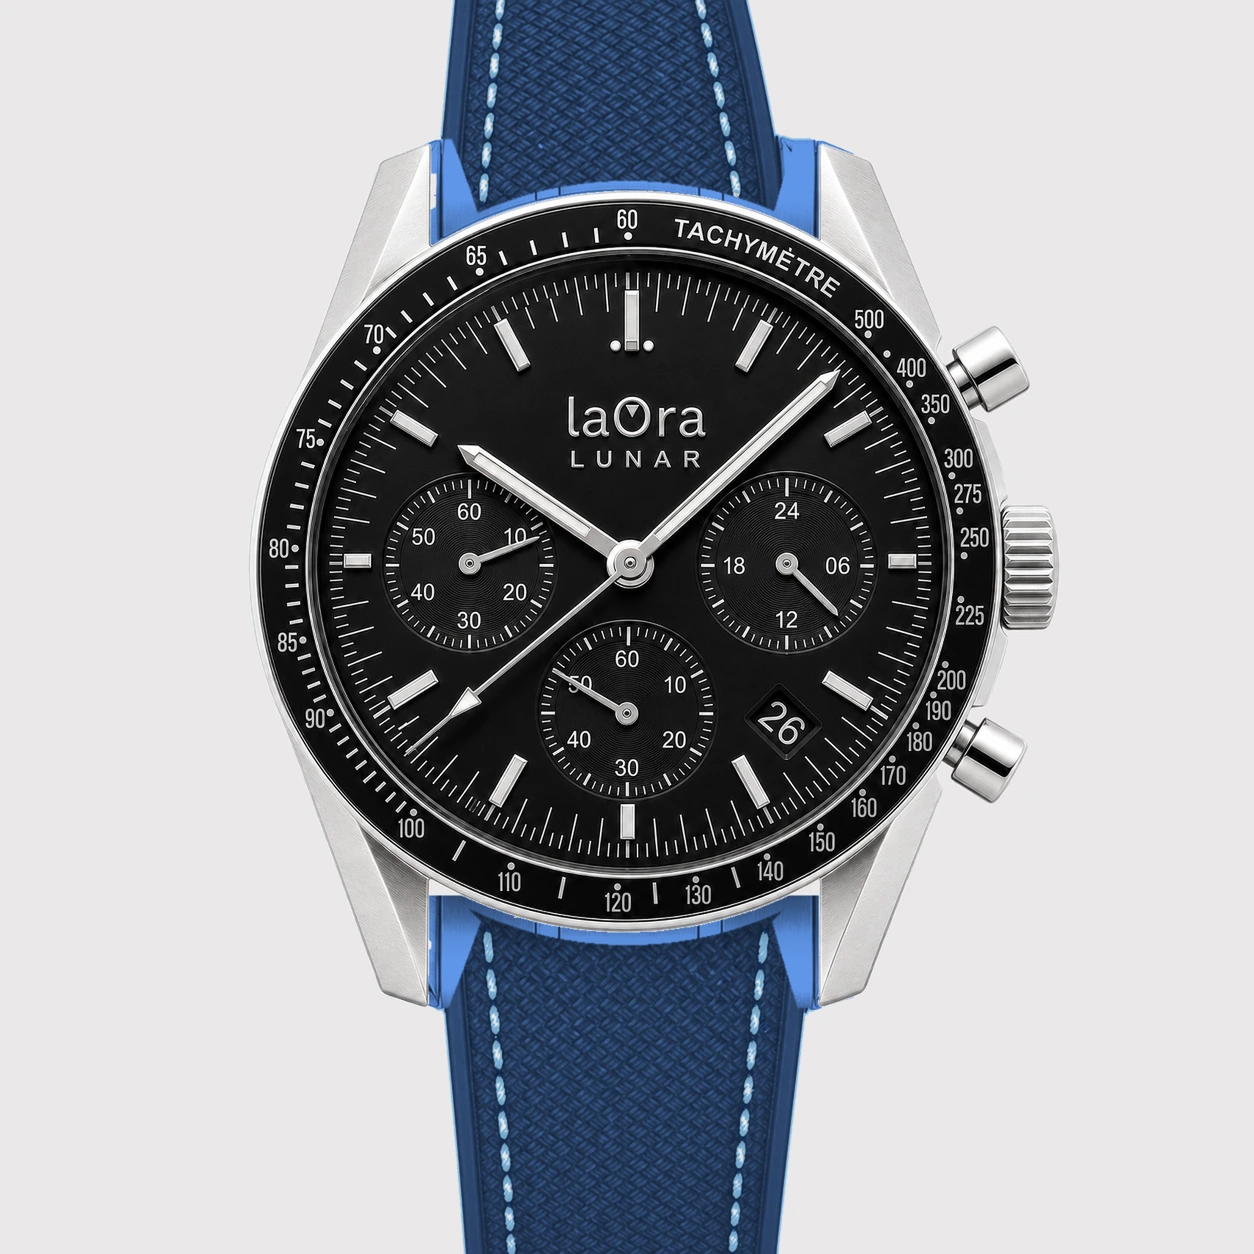
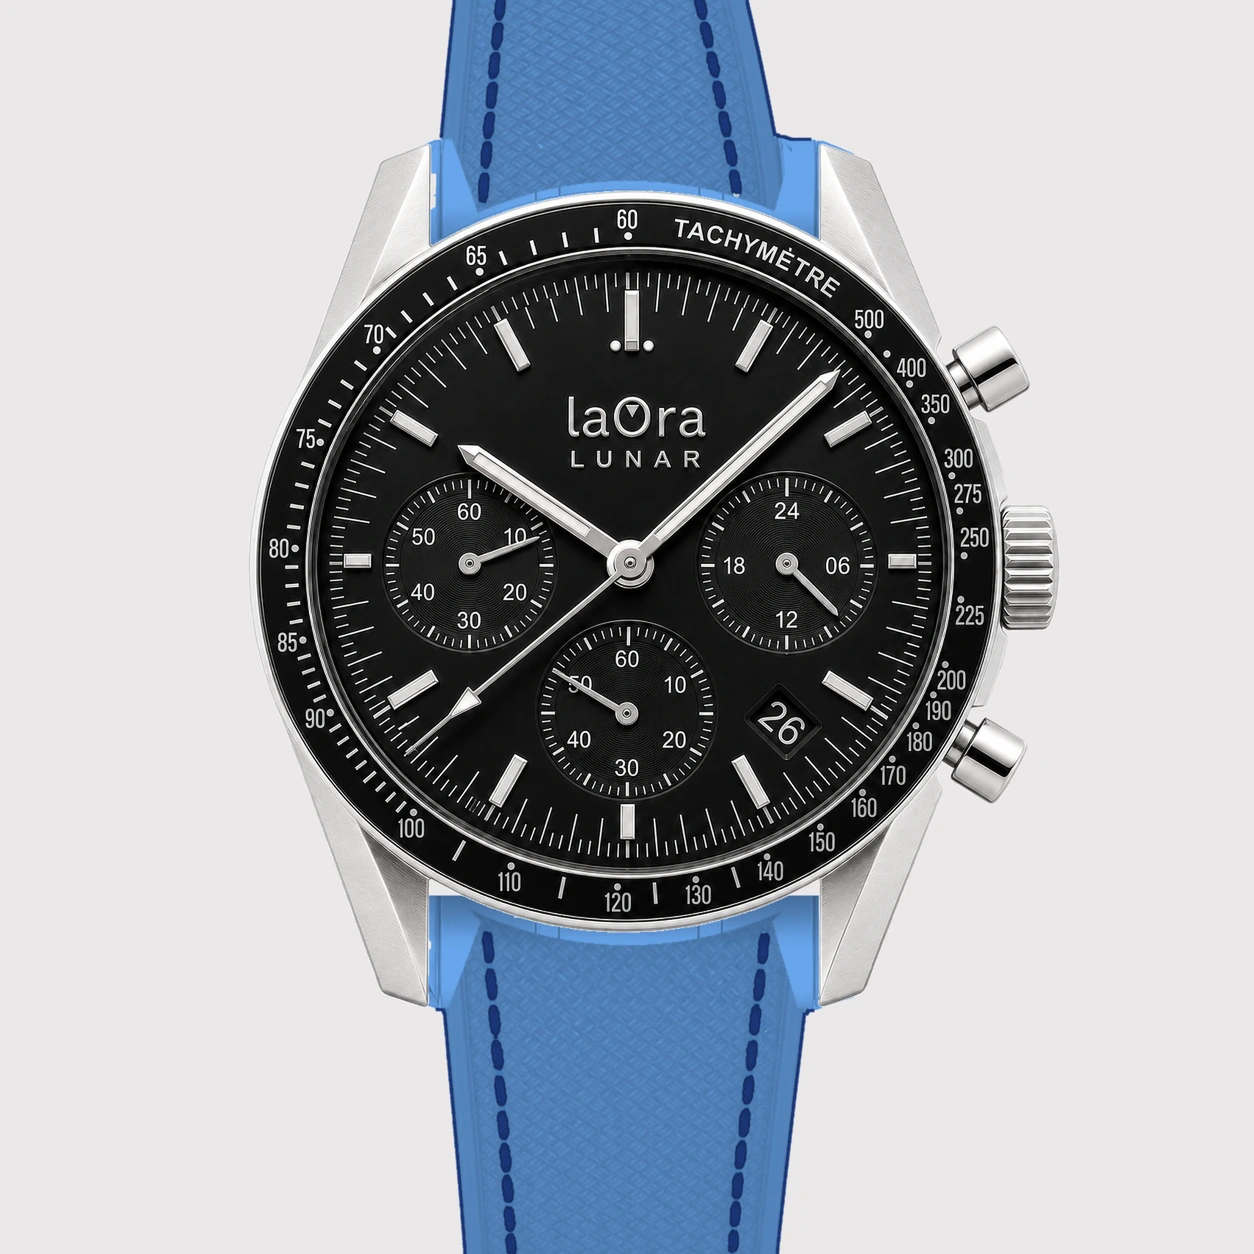
Lunar: goma azul nueva, y la piel italiana negra ya va con caja negra
La madre de la goma azul la regeneró Óscar: ya no es azul marino con
reborde claro, sino azul claro uniforme. Rehechas las dos capas.

Con ese cambio, el pespunte azul tuvo que darse la vuelta: sobre la
correa marina iba azul claro y sobre la clara desaparecía, así que ahora
va azul MARINO. El pespunte contrasta con SU correa.

Y salió a la luz un fallo del aislado del hilo: el núcleo brillante de
cada puntada caía dentro de la horquilla del gris del estudio y se
contaba como fondo, así que se quedaba sin teñir. Con tinte claro no se
notaba; con uno oscuro dejaba motas blancas dentro de cada puntada. Se
limpia con una apertura sobre la máscara de fondo.

La piel italiana NEGRA se abre a la caja negra: comprobado en zoom que
la correa tapa el hueco entre asas y no asoma nada del acero de la foto.
El caucho no puede —ahí la correa se estrecha al nacer y deja ver el
metal—, así que sigue tachado.

Changed region(s): [[0.3421, 0.7153, 0.6531, 1.0], [0.3421, 0.0, 0.6531, 0.1866]]

diff --git a/lunar.html b/lunar.html
@@ -283,9 +283,9 @@
     /* Coste SUPUESTO, el del resto del caucho: Óscar no ha dado el de
        esta. Solo con bisel azul. */
     'goma-azul-pespunte-blanco':  { coste: 5.59, cierre: 'Hebilla de pinza',
-      tec: 'caucho azul marino con trama textil en cesta, pespunte blanco y final curvo azul claro que abraza la caja, hebilla de pinza' },
+      tec: 'caucho azul claro con trama textil en cesta, pespunte blanco y final curvo que abraza la caja, hebilla de pinza' },
     'goma-azul-pespunte-azul':    { coste: 5.59, cierre: 'Hebilla de pinza',
-      tec: 'caucho azul marino con trama textil en cesta, pespunte azul al tono y final curvo azul claro que abraza la caja, hebilla de pinza' }
+      tec: 'caucho azul claro con trama textil en cesta, pespunte azul marino y final curvo que abraza la caja, hebilla de pinza' }
   };
 
   /* Los seis tipos, en tres niveles: TIPO -> COLOR -> PESPUNTE.
@@ -335,9 +335,9 @@
         'verde':   { nombre: 'Verde',   tec: 'costura verde de contraste',   correa: 'goma-negra-costura-verde' },
         'naranja': { nombre: 'Naranja', tec: 'costura naranja de contraste', correa: 'goma-negra-costura-naranja' },
         'blanco':  { nombre: 'Blanco',  tec: 'costura blanca de contraste',  correa: 'goma-negra-costura-blanca' } } },
-      'azul':  { nombre: 'Azul',  color: '#1F3E77', pespuntes: {
+      'azul':  { nombre: 'Azul',  color: '#5FA8E0', pespuntes: {
         'blanco': { nombre: 'Blanco', tec: 'pespunte blanco de contraste',  correa: 'goma-azul-pespunte-blanco' },
-        'azul':   { nombre: 'Azul',   tec: 'pespunte azul al tono',         correa: 'goma-azul-pespunte-azul' } } } } }
+        'azul':   { nombre: 'Azul',   tec: 'pespunte azul marino',          correa: 'goma-azul-pespunte-azul' } } } } }
   };
 
   /* ---------- 8. LA TAPA ROSCADA ----------
@@ -606,7 +606,7 @@
   });
 
   /* El manifiesto manda: de él salen las rutas de todas las capas. */
-  fetch('/assets/img/lunar-config/manifest.json?v=12')
+  fetch('/assets/img/lunar-config/manifest.json?v=13')
     .then(function (r) { return r.json(); })
     .then(function (m) { M = m; normaliza(); pinta(); });
 })();

diff --git a/herramientas/recolorear_pespunte.py b/herramientas/recolorear_pespunte.py
@@ -67,7 +67,16 @@ def hilo_blanco_a_azul():
     a = np.asarray(Image.open(MADRE_AZUL).convert('RGB')).astype(float) / 255.0
     _, s_, v = a_hsv(a)
 
+    # El fondo del estudio es un gris claro… y el núcleo brillante de
+    # cada puntada blanca cae dentro de esa horquilla, así que entraba
+    # como «fondo» y se quedaba sin teñir: quedaban motas blancas dentro
+    # de cada puntada, invisibles con un tinte claro y escandalosas con
+    # uno oscuro. Se limpia con una apertura: las islas de fondo más
+    # finas que el hilo se borran y solo queda el fondo de verdad.
     fondo = np.abs(a - a[8, 8]).max(axis=2) < 0.055
+    fondo = np.asarray(Image.fromarray((fondo * 255).astype('uint8'))
+                       .filter(ImageFilter.MinFilter(21))
+                       .filter(ImageFilter.MaxFilter(21))) > 128
     cab = np.asarray(Image.open('assets/img/lunar-config/heads/'
                                 'cab-acero-bazul-esfblanca-agujas-plateadas.webp')
                      .convert('RGBA'))[:, :, 3] > 40
@@ -75,18 +84,24 @@ def hilo_blanco_a_azul():
                      .filter(ImageFilter.MaxFilter(21))
                      .resize(a.shape[1::-1], Image.NEAREST)) > 128
     correa = (~fondo) & (~cab)
-    hilo = correa & (s_ < 0.22) & (v > np.percentile(v[correa], 88))
+    # El umbral no puede quedarse corto: con un tinte oscuro, cualquier
+    # píxel del hilo que no entre en la máscara salta como una mota
+    # blanca dentro de la puntada. Se puede bajar sin miedo porque la
+    # correa es azul saturado y cae fuera por el filtro de saturación.
+    hilo = correa & (s_ < 0.30) & (v > np.percentile(v[correa], 72))
     print('hilo blanco aislado: %d px' % hilo.sum())
 
     # el borde se difumina, o el tinte deja un halo blanco alrededor
     peso = np.asarray(Image.fromarray((hilo * 255).astype('uint8'))
-                      .filter(ImageFilter.MaxFilter(5))
+                      .filter(ImageFilter.MaxFilter(9))
                       .filter(ImageFilter.GaussianBlur(1.6))).astype(float) / 255.0
     peso = np.clip(peso, 0, 1)[..., None]
 
-    # azul claro: se lee sobre el azul marino y rima con el reborde de
-    # la propia correa. Un azul más oscuro se confundiría con el fondo.
-    tinte = a_rgb(np.full_like(v, 205 / 360.0), np.full_like(v, 0.42), np.clip(v * 0.97, 0, 1))
+    # Azul OSCURO. Ojo: la primera versión de esta correa era azul
+    # marino y el hilo se tiñó de azul claro; Óscar la cambió por una
+    # azul claro, y entonces el hilo claro desaparecía. Manda la
+    # legibilidad: el pespunte contrasta con SU correa, no al revés.
+    tinte = a_rgb(np.full_like(v, 222 / 360.0), np.full_like(v, 0.78), np.clip(v * 0.52, 0, 1))
     out = a * (1 - peso) + tinte * peso
     Image.fromarray((np.clip(out, 0, 1) * 255).astype('uint8')) \
          .save('masters-2026/lunar/capas/goma-azul-pespunte-azul-madre-4k.png')
